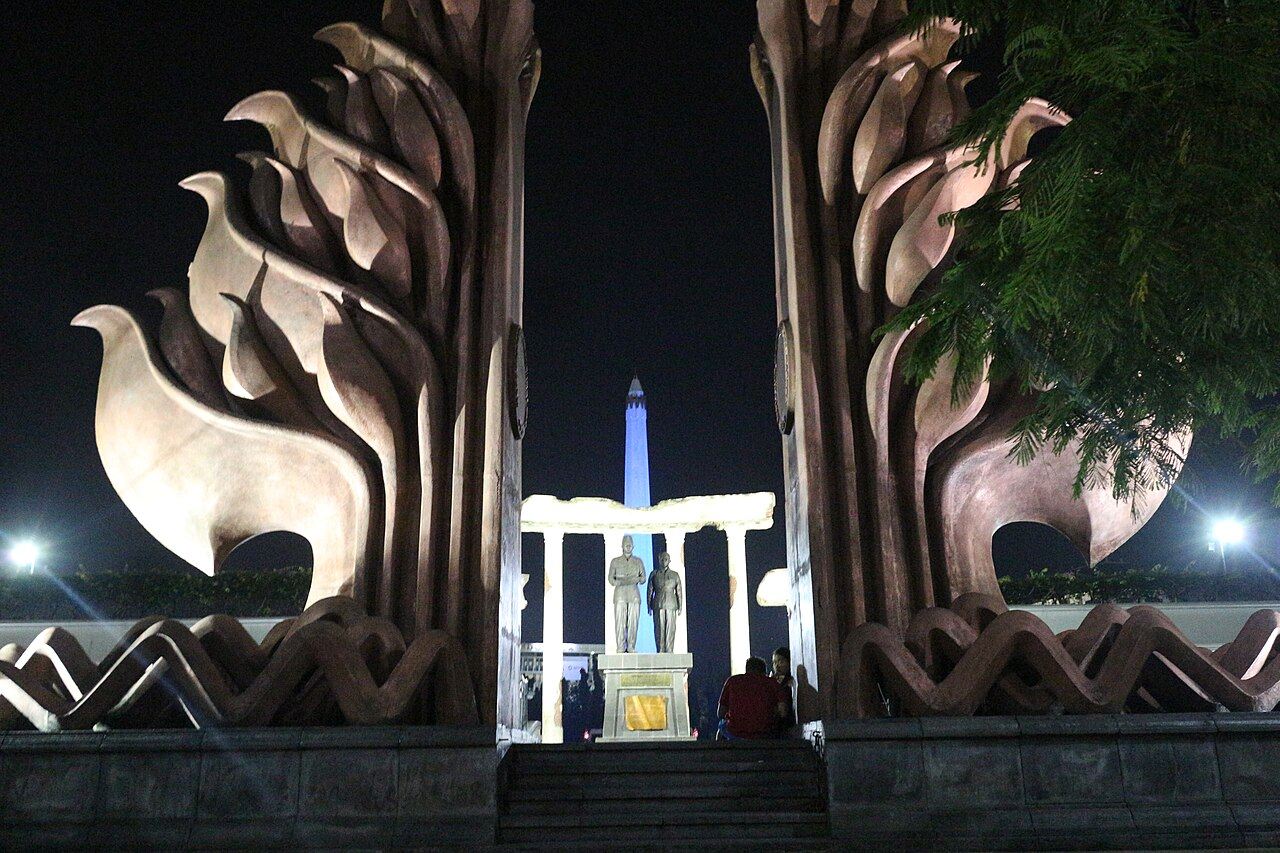
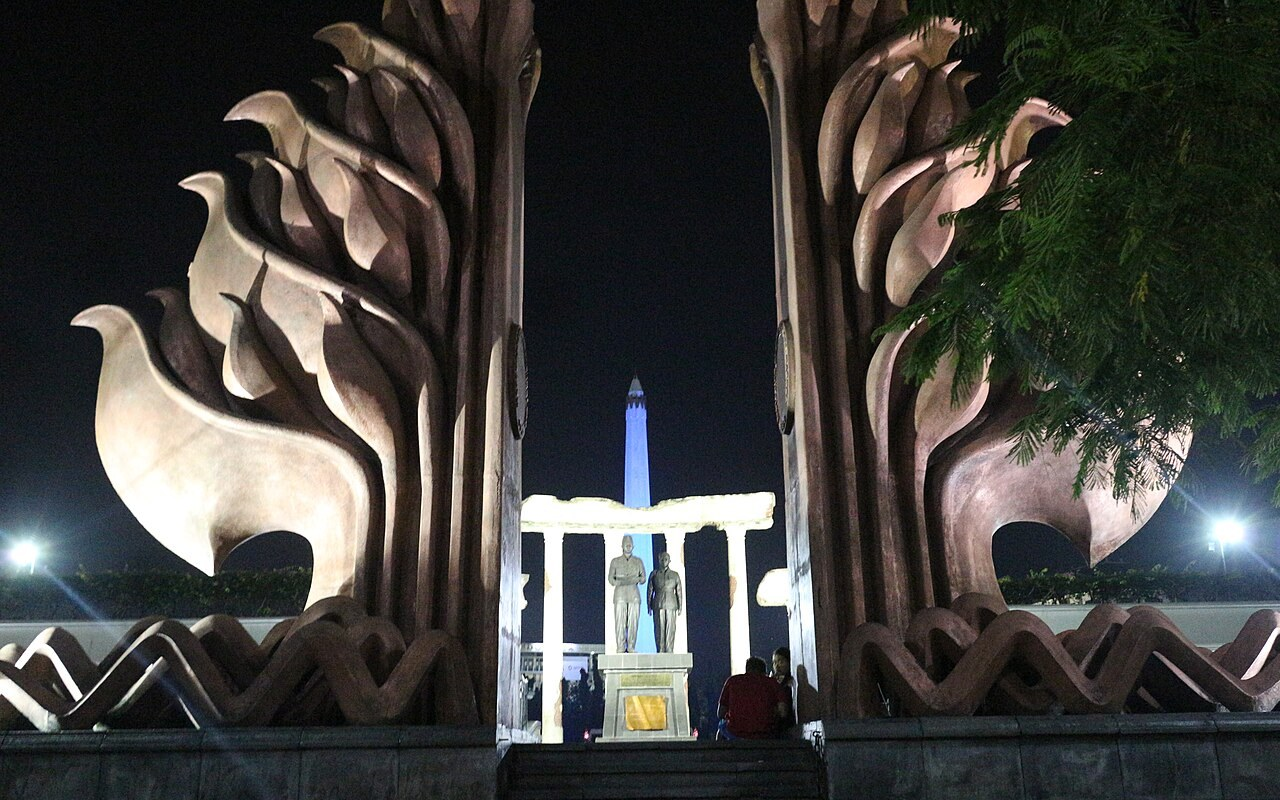
Perbaikan kartu kota r2: crop foto 16:10, kartu setara, ilustrasi AI kota di Tentang

diff --git a/aplikasi/static/style.css b/aplikasi/static/style.css
@@ -65,7 +65,7 @@ a { color: var(--accent); text-underline-offset: 3px; }
 a:hover { color: var(--accent-deep); }
 :focus-visible { outline: 2px solid var(--accent); outline-offset: 2px; border-radius: var(--radius-sm); }
 ::selection { background: var(--accent); color: var(--accent-ink); }
-img { max-width: 100%; display: block; }
+img { max-width: 100%; display: block; height: auto; }
 
 .visually-hidden {
   position: absolute; width: 1px; height: 1px; overflow: hidden;
@@ -130,7 +130,7 @@ main { max-width: var(--measure); margin: 0 auto; padding: 32px 24px 64px; }
 /* Hero foto: gambar nyata, teks di atas scrim netral (pengecualian gradien
    design.md, hanya di atas foto). Rasio tetap supaya tidak lompat saat muat. */
 .hero { position: relative; border-radius: var(--radius); overflow: hidden; margin-bottom: 24px; background: var(--field); }
-.hero img { width: 100%; aspect-ratio: 16 / 7; object-fit: cover; }
+.hero img { width: 100%; height: auto; aspect-ratio: 16 / 7; object-fit: cover; }
 .hero .hero-body {
   position: absolute; inset: auto 0 0 0; padding: 48px 24px 20px; color: var(--surface);
   background: linear-gradient(to top, rgba(11, 15, 14, 0.82), rgba(11, 15, 14, 0.35) 60%, rgba(11, 15, 14, 0));
@@ -139,7 +139,7 @@ main { max-width: var(--measure); margin: 0 auto; padding: 32px 24px 64px; }
 .hero .hero-body p { color: var(--surface); opacity: 0.92; margin: 0; max-width: 62ch; }
 .hero .hero-body a { color: var(--surface); }
 .hero-banner { position: relative; border-radius: var(--radius); overflow: hidden; margin-bottom: 24px; background: var(--field); }
-.hero-banner img { width: 100%; aspect-ratio: 16 / 5; object-fit: cover; }
+.hero-banner img { width: 100%; height: auto; aspect-ratio: 16 / 5; object-fit: cover; }
 .hero-banner .hero-body {
   position: absolute; inset: auto 0 0 0; padding: 40px 24px 16px; color: var(--surface);
   background: linear-gradient(to top, rgba(11, 15, 14, 0.82), rgba(11, 15, 14, 0.3) 65%, rgba(11, 15, 14, 0));
@@ -164,20 +164,20 @@ main { max-width: var(--measure); margin: 0 auto; padding: 32px 24px 64px; }
 }
 .facts .lbl { display: block; margin-top: 4px; color: var(--muted); font-size: 13px; }
 
-/* Kartu kota ala Vita: foto besar, nama + simbol kota, pemenang, aksi. */
+/* Kartu kota ala Vita: foto besar, nama + simbol kota, pemenang, aksi.
+   Semua kartu setara: rasio gambar 16:10 yang sama di semua kartu dan lebar,
+   grid stretch supaya satu baris sama tinggi, tombol didorong ke bawah. */
 .city-cards {
   display: grid; grid-template-columns: repeat(2, minmax(0, 1fr)); gap: var(--gap);
-  margin: 0 0 32px; padding: 0; list-style: none;
+  margin: 0 0 32px; padding: 0; list-style: none; align-items: stretch;
 }
 .city-cards > li {
   border: 1px solid var(--line); border-radius: var(--radius); overflow: hidden;
-  background: var(--surface); display: flex; flex-direction: column;
+  background: var(--surface); display: flex; flex-direction: column; height: 100%;
   transition: transform 160ms cubic-bezier(0.16, 1, 0.3, 1);
 }
 .city-cards > li:hover { transform: translateY(-2px); }
-.city-cards > li:first-child { grid-column: 1 / -1; }
-.city-cards > li:first-child img { aspect-ratio: 16 / 6; }
-.city-cards img { width: 100%; aspect-ratio: 16 / 9; object-fit: cover; background: var(--field); }
+.city-cards img { display: block; width: 100%; height: auto; aspect-ratio: 16 / 10; object-fit: cover; background: var(--field); }
 .city-card-body { padding: 18px 20px 20px; display: flex; flex-direction: column; gap: 8px; flex: 1; }
 .city-card-head { display: flex; align-items: center; gap: 12px; }
 .city-card-head h3 { margin: 0; font-size: 24px; }
@@ -389,7 +389,16 @@ input[aria-invalid="true"] { border-color: var(--danger); }
 /* Strip foto kota di Tentang: 5 foto kecil, kredit di bawah. */
 .photo-strip { display: grid; grid-template-columns: repeat(5, minmax(0, 1fr)); gap: 12px; margin-bottom: 8px; }
 .photo-strip figure { margin: 0; }
-.photo-strip img { width: 100%; aspect-ratio: 4 / 3; object-fit: cover; border-radius: var(--radius); background: var(--field); }
+.photo-strip img { width: 100%; height: auto; aspect-ratio: 4 / 3; object-fit: cover; border-radius: var(--radius); background: var(--field); }
+
+/* Ilustrasi kota: jelas-jelas ilustrasi datar, bukan foto. Dipakai sebagai
+   dekorasi jujur di halaman Tentang, foto asli tetap jadi foto utama. */
+.illustration-strip { display: grid; grid-template-columns: repeat(5, minmax(0, 1fr)); gap: 12px; margin: 0 0 8px; }
+.illustration-strip figure { margin: 0; border: 1px solid var(--line); border-radius: var(--radius); overflow: hidden; background: var(--surface); display: flex; flex-direction: column; height: 100%; }
+.illustration-strip img { display: block; width: 100%; height: auto; aspect-ratio: 4 / 3; object-fit: cover; background: var(--field); }
+.illustration-strip figcaption { padding: 10px 12px 12px; font-size: 13px; color: var(--muted); }
+.illustration-strip figcaption strong { color: var(--ink); display: block; font-size: 14px; }
+.illustration-tag { display: inline-block; background: var(--field); border: 1px solid var(--line); border-radius: 999px; padding: 1px 8px; font-size: 12px; font-weight: 700; color: var(--muted); margin-top: 6px; }
 .photo-strip figcaption { font-size: 13px; color: var(--muted); margin-top: 6px; }
 
 /* Footer: ink gelap, wordmark sans 800, rapat. */
@@ -438,8 +447,6 @@ input[aria-invalid="true"] { border-color: var(--danger); }
   .admin-actions { grid-template-columns: 1fr; }
   .kv { grid-template-columns: 1fr; }
   .city-cards { grid-template-columns: 1fr; }
-  .city-cards > li:first-child { grid-column: auto; }
-  .city-cards > li:first-child img { aspect-ratio: 16 / 9; }
   .steps { grid-template-columns: repeat(2, minmax(0, 1fr)); }
   .photo-strip { grid-template-columns: repeat(2, minmax(0, 1fr)); }
   .hero img { aspect-ratio: 16 / 9; }

diff --git a/aplikasi/templates/tentang.html b/aplikasi/templates/tentang.html
@@ -25,7 +25,7 @@
   <div class="photo-strip">
   {% for nama, m in city_meta.items() %}
     <figure>
-      <img src="{{ url_for('static', filename='images/' + m.file) }}" width="{{ m.width }}" height="{{ m.height }}" loading="lazy" alt="{{ m.subject }}">
+      <img src="{{ url_for('static', filename='images/' + m.file) }}" width="{{ m.width }}" height="{{ m.height }}" loading="lazy" style="object-position: {{ m.position }}" alt="{{ m.subject }}">
       <figcaption>{{ nama }}: {{ m.subject }}</figcaption>
     </figure>
   {% endfor %}
@@ -35,6 +35,34 @@
     <li>{{ nama }}: {{ m.subject }}, foto oleh {{ m.photographer }}, lisensi <a href="{{ m.license_url }}">{{ m.license }}</a>, sumber <a href="{{ m.commons_url }}">Wikimedia Commons</a>.</li>
   {% endfor %}
   </ul>
+</section>
+
+
+<section aria-labelledby="ilustrasi-kota">
+  <h2 id="ilustrasi-kota">Ilustrasi kota</h2>
+  <p>Ilustrasi datar di bawah ini dibuat dengan AI sebagai hiasan, dan diberi label <strong>Ilustrasi</strong> supaya jelas bukan foto asli. Foto lokasi yang sebenarnya tetap foto Wikimedia di atas.</p>
+  <div class="illustration-strip">
+    <figure>
+      <img src="{{ url_for('static', filename='images/ilustrasi-jakarta.png') }}" width="1024" height="768" loading="lazy" alt="Ilustrasi datar Monumen Nasional (Monas), Jakarta">
+      <figcaption><strong>Jakarta</strong>Monas<span class="illustration-tag">Ilustrasi</span></figcaption>
+    </figure>
+    <figure>
+      <img src="{{ url_for('static', filename='images/ilustrasi-yogyakarta.png') }}" width="1024" height="768" loading="lazy" alt="Ilustrasi datar Candi Borobudur, Yogyakarta">
+      <figcaption><strong>Yogyakarta</strong>Borobudur<span class="illustration-tag">Ilustrasi</span></figcaption>
+    </figure>
+    <figure>
+      <img src="{{ url_for('static', filename='images/ilustrasi-bandung.png') }}" width="1024" height="768" loading="lazy" alt="Ilustrasi datar Gedung Sate, Bandung">
+      <figcaption><strong>Bandung</strong>Gedung Sate<span class="illustration-tag">Ilustrasi</span></figcaption>
+    </figure>
+    <figure>
+      <img src="{{ url_for('static', filename='images/ilustrasi-semarang.png') }}" width="1024" height="768" loading="lazy" alt="Ilustrasi datar Lawang Sewu, Semarang">
+      <figcaption><strong>Semarang</strong>Lawang Sewu<span class="illustration-tag">Ilustrasi</span></figcaption>
+    </figure>
+    <figure>
+      <img src="{{ url_for('static', filename='images/ilustrasi-surabaya.png') }}" width="1024" height="768" loading="lazy" alt="Ilustrasi datar Tugu Pahlawan, Surabaya">
+      <figcaption><strong>Surabaya</strong>Tugu Pahlawan<span class="illustration-tag">Ilustrasi</span></figcaption>
+    </figure>
+  </div>
 </section>
 
 <section aria-labelledby="sumber-data">

diff --git a/aplikasi/templates/index.html b/aplikasi/templates/index.html
@@ -2,7 +2,7 @@
 {% block title %}SPK Paket Wisata — Pilih Kota{% endblock %}
 {% block content %}
 <section class="hero" aria-labelledby="judul-hero">
-  <img src="{{ url_for('static', filename='images/jakarta.jpg') }}" width="1280" height="724" fetchpriority="high" alt="Monumen Nasional (Monas) di Jakarta">
+  <img src="{{ url_for('static', filename='images/jakarta.jpg') }}" width="1280" height="800" fetchpriority="high" style="object-position: 50% 42%" alt="Monumen Nasional (Monas) di Jakarta">
   <div class="hero-body">
     <h1 id="judul-hero">Pilih kota.<br>Lihat paket terbaiknya.</h1>
     <p>Sistem ini merekomendasikan paket wisata dengan dua metode. <strong>SAW</strong> menjumlahkan skor terbobot, <strong>TOPSIS</strong> mengukur jarak ke solusi ideal. Pilih kota dulu, lalu lihat rankingnya.</p>
@@ -22,7 +22,7 @@
     {% set m = city_meta[k.nama] %}
     {% set w = winners[k.nama] %}
     <li>
-      <img src="{{ url_for('static', filename='images/' + m.file) }}" width="{{ m.width }}" height="{{ m.height }}" loading="lazy" alt="{{ m.subject }}">
+      <img src="{{ url_for('static', filename='images/' + m.file) }}" width="{{ m.width }}" height="{{ m.height }}" loading="lazy" style="object-position: {{ m.position }}" alt="{{ m.subject }}">
       <div class="city-card-body">
         <div class="city-card-head">
           <svg class="icon icon-city" aria-hidden="true"><use href="#icon-{{ m.symbol }}"/></svg>

diff --git a/aplikasi/templates/kota.html b/aplikasi/templates/kota.html
@@ -2,7 +2,7 @@
 {% block title %}Paket Wisata {{ kota }} — SPK Paket Wisata{% endblock %}
 {% block content %}
 <section class="hero-banner" aria-labelledby="judul-kota">
-  <img src="{{ url_for('static', filename='images/' + meta.file) }}" width="{{ meta.width }}" height="{{ meta.height }}" fetchpriority="high" alt="{{ meta.subject }}">
+  <img src="{{ url_for('static', filename='images/' + meta.file) }}" width="{{ meta.width }}" height="{{ meta.height }}" fetchpriority="high" style="object-position: {{ meta.position }}" alt="{{ meta.subject }}">
   <div class="hero-body">
     <h1 id="judul-kota">{{ kota }}</h1>
     <p>{{ packages|length }} paket wisata di kota ini. Pemenang SAW: Paket {{ winners.saw_paket }}, pemenang TOPSIS: Paket {{ winners.topsis_paket }}.</p>

diff --git a/aplikasi/templates/paket.html b/aplikasi/templates/paket.html
@@ -2,7 +2,7 @@
 {% block title %}{{ detail.nama_tampil }} — SPK Paket Wisata{% endblock %}
 {% block content %}
 <section class="hero-banner" aria-labelledby="judul-paket">
-  <img src="{{ url_for('static', filename='images/' + meta.file) }}" width="{{ meta.width }}" height="{{ meta.height }}" fetchpriority="high" alt="{{ meta.subject }}">
+  <img src="{{ url_for('static', filename='images/' + meta.file) }}" width="{{ meta.width }}" height="{{ meta.height }}" fetchpriority="high" style="object-position: {{ meta.position }}" alt="{{ meta.subject }}">
   <div class="hero-body">
     <h1 id="judul-paket">{{ detail.nama_tampil }}</h1>
     <p>Kota {{ detail.kota }}. Foto di atas adalah foto kota, bukan foto paket, karena tidak ada foto paket asli.</p>

diff --git a/aplikasi/templates/rekomendasi.html b/aplikasi/templates/rekomendasi.html
@@ -2,7 +2,7 @@
 {% block title %}Rekomendasi {{ kota }} — SPK Paket Wisata{% endblock %}
 {% block content %}
 <section class="hero-banner" aria-labelledby="judul-rekomendasi">
-  <img src="{{ url_for('static', filename='images/' + meta.file) }}" width="{{ meta.width }}" height="{{ meta.height }}" fetchpriority="high" alt="{{ meta.subject }}">
+  <img src="{{ url_for('static', filename='images/' + meta.file) }}" width="{{ meta.width }}" height="{{ meta.height }}" fetchpriority="high" style="object-position: {{ meta.position }}" alt="{{ meta.subject }}">
   <div class="hero-body">
     <h1 id="judul-rekomendasi">Rekomendasi {{ kota }}</h1>
     <p>{{ meta.subject }}.</p>

diff --git a/aplikasi/app.py b/aplikasi/app.py
@@ -25,7 +25,7 @@ app.secret_key = os.environ.get("SPK_SECRET_KEY", "spk-demo-key-ganti-di-produks
 # Foto bukan milik proyek; kredit lengkap ditampilkan di halaman Tentang.
 CITY_META = {
     "Jakarta": {
-        "file": "jakarta.jpg", "width": 1280, "height": 724,
+        "file": "jakarta.jpg", "width": 1280, "height": 800, "position": "50% 42%",
         "subject": "Monumen Nasional (Monas), Jakarta",
         "photographer": "Ramayoni", "license": "CC BY-SA 4.0",
         "license_url": "https://creativecommons.org/licenses/by-sa/4.0",
@@ -33,7 +33,7 @@ CITY_META = {
         "symbol": "monas",
     },
     "Yogyakarta": {
-        "file": "yogyakarta.jpg", "width": 1280, "height": 854,
+        "file": "yogyakarta.jpg", "width": 1280, "height": 800, "position": "50% 55%",
         "subject": "Candi Borobudur, Jawa Tengah",
         "photographer": "Jakub Ha\u0142un", "license": "CC BY-SA 4.0",
         "license_url": "https://creativecommons.org/licenses/by-sa/4.0",
@@ -41,7 +41,7 @@ CITY_META = {
         "symbol": "borobudur",
     },
     "Bandung": {
-        "file": "bandung.jpg", "width": 1280, "height": 757,
+        "file": "bandung.jpg", "width": 1280, "height": 800, "position": "50% 42%",
         "subject": "Gedung Sate, Bandung",
         "photographer": "Gunawan Kartapranata", "license": "CC BY-SA 3.0",
         "license_url": "https://creativecommons.org/licenses/by-sa/3.0",
@@ -49,7 +49,7 @@ CITY_META = {
         "symbol": "gedung-sate",
     },
     "Semarang": {
-        "file": "semarang.jpg", "width": 1280, "height": 854,
+        "file": "semarang.jpg", "width": 1280, "height": 800, "position": "50% 42%",
         "subject": "Lawang Sewu, Semarang",
         "photographer": "Philip Nalangan", "license": "CC BY 4.0",
         "license_url": "https://creativecommons.org/licenses/by/4.0",
@@ -57,7 +57,7 @@ CITY_META = {
         "symbol": "lawang-sewu",
     },
     "Surabaya": {
-        "file": "surabaya.jpg", "width": 1280, "height": 853,
+        "file": "surabaya.jpg", "width": 1280, "height": 800, "position": "50% 42%",
         "subject": "Tugu Pahlawan, Surabaya",
         "photographer": "Eny Santiati", "license": "CC BY-SA 4.0",
         "license_url": "https://creativecommons.org/licenses/by-sa/4.0",
